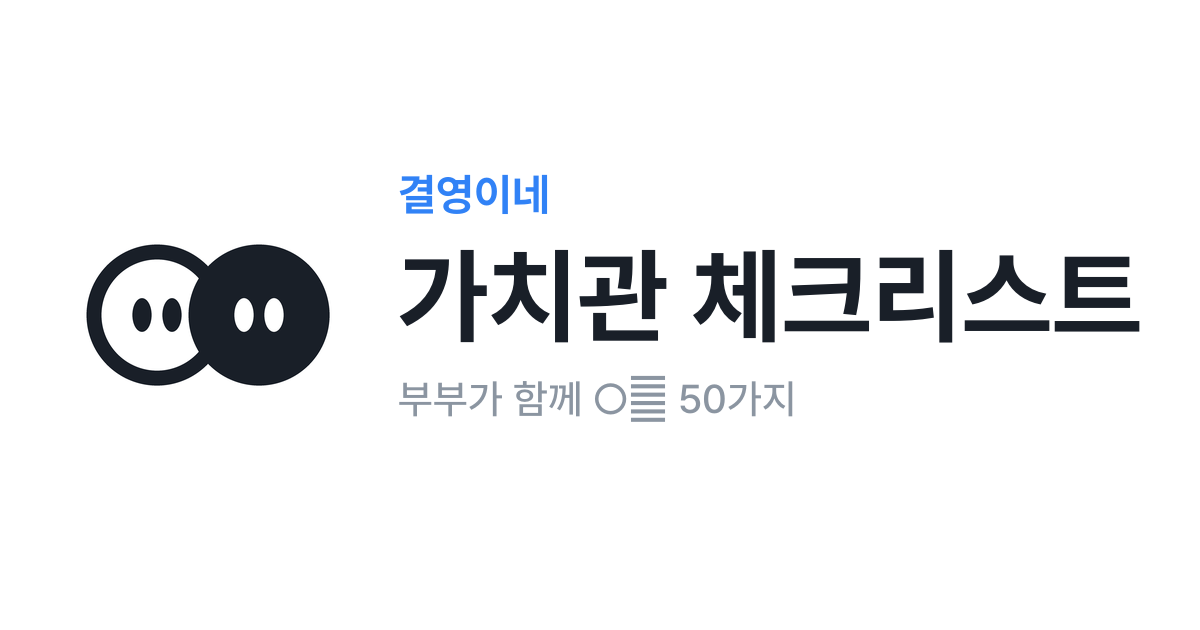
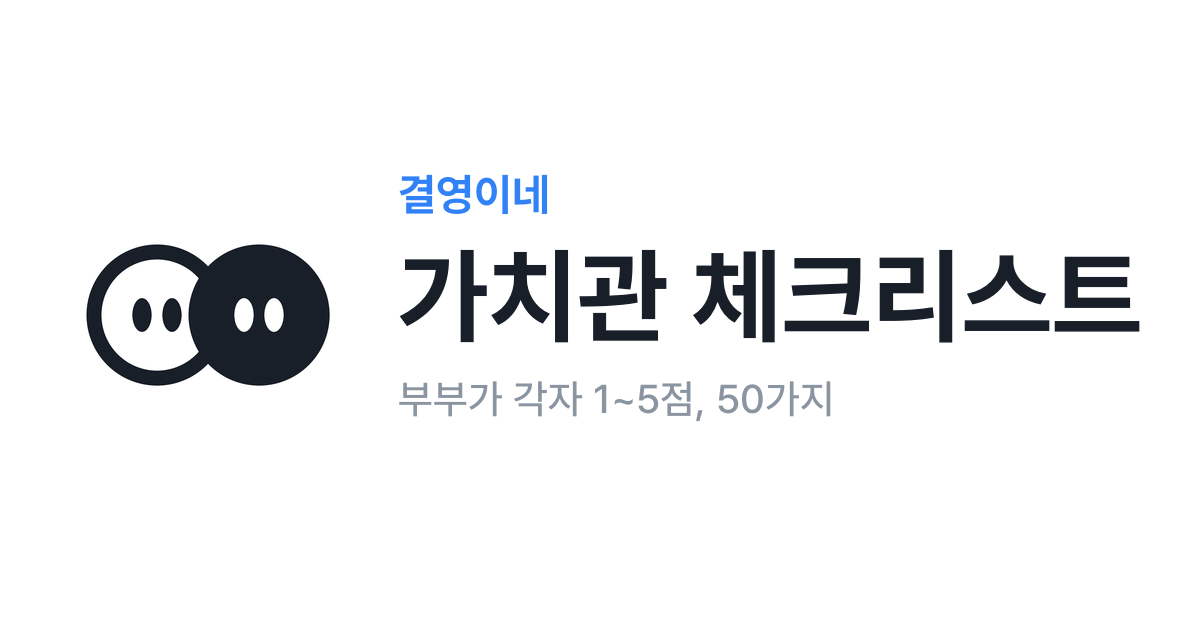
가치관 체크리스트: ○✕ → 1~5점(매우 아니다~매우 그렇다)
- 궁합 % = 평균(1 - 차이/4), 한 칸 차이는 '비슷'
- '이것부터 이야기해 보세요'는 2칸 이상 차이, 큰 차이부터
- 이 기기 저장 v2로 새 칸, supabase/household-values-5.sql 실행 필요

Changed region(s): [[0.4317, 0.573, 0.7092, 0.6937]]

diff --git a/src/pages/Values.tsx b/src/pages/Values.tsx
@@ -6,7 +6,7 @@ import ShareArticle, {
 } from "../components/ShareArticle";
 import { supabase } from "../lib/supabase";
 import { rememberLogin } from "../lib/preview";
-import { computeMatch, type ValuesMatch } from "../lib/valuesMatch";
+import { computeMatch, gap, SCALE, type ValuesMatch } from "../lib/valuesMatch";
 import {
   deleteMyValues,
   fetchValuesRows,
@@ -18,12 +18,13 @@ import {
 /**
  * 부부 재테크 가치관 체크리스트 50 (2026-11-19) — 로그인 없이 열리는 공개 페이지.
  * 인스타툰 「결혼자금 3천만원, 적은 걸까?」 댓글로 받은 사람이 들어온다.
- * 각자 자기 폰에서 자기 칸(아내/남편)만 ○✕ → 두 답을 합쳐 궁합 카드(같은 답 비율)와 다른 것 목록을 보여 준다. 정답 없음.
+ * 각자 자기 폰에서 자기 칸(아내/남편)만 1~5점(매우 아니다~매우 그렇다) → 두 답을 합쳐 궁합 카드와 생각이 먼 것 목록을 보여 준다. 정답 없음.
+ * 11-20 결영 "ox 말고 1~5점, 매우 그렇다·매우 아니다도" — 답 한 글자 = 0 빈칸·1~5 점수.
  * 합치는 길 두 가지 (11-19 결영 "내 폰에서는 나만, 배우자는 배우자 것 / 로그인하면 합쳐지게"):
  *  - 로그인한 부부: household_values 표(supabase/household-values.sql)에 한 사람 한 행 → 저절로 합침.
  *  - 로그인 안 함: '배우자에게 보내기' 링크(#/values?w=.. 또는 ?h=..)에 내 답만 실어 보냄 — 서버에 안 보냄.
  */
-type Mark = 0 | 1 | 2; // 0 빈칸 · 1 ○ · 2 ✕
+type Mark = 0 | 1 | 2 | 3 | 4 | 5; // 0 빈칸 · 1 매우 아니다 … 5 매우 그렇다
 
 const GROUPS: { title: string; emoji: string; items: string[] }[] = [
   {
@@ -139,10 +140,10 @@ const GROUPS: { title: string; emoji: string; items: string[] }[] = [
 ];
 const ITEMS = GROUPS.flatMap((g) => g.items);
 const N = ITEMS.length; // 50
-const KEY = "moabuli.values.v1";
+const KEY = "moabuli.values.v2"; // v1 = ○✕ 시절(11-19), 섞이지 않게 새 칸
 
 function decode(s: string | null): Mark[] | null {
-  if (!s || !/^[012]+$/.test(s)) return null;
+  if (!s || !/^[0-5]+$/.test(s)) return null;
   const a = s.slice(0, N).split("").map((c) => Number(c) as Mark);
   while (a.length < N) a.push(0);
   return a;
@@ -269,7 +270,7 @@ export default function Values() {
     }
   }, [ans, me, ready]);
 
-  const pick = (i: number, v: 1 | 2) => {
+  const pick = (i: number, v: Mark) => {
     if (!me) return;
     setAns((prev) => {
       const a = [...prev[me]] as Mark[];
@@ -282,7 +283,10 @@ export default function Values() {
   const husband = ans.h;
   const match = useMemo(() => computeMatch(GROUPS, wife, husband), [wife, husband]);
   const diffList = useMemo(
-    () => ITEMS.map((_, i) => i).filter((i) => wife[i] && husband[i] && wife[i] !== husband[i]),
+    () =>
+      ITEMS.map((_, i) => i)
+        .filter((i) => wife[i] && husband[i] && gap(wife[i], husband[i]) >= 2)
+        .sort((a, b) => gap(wife[b], husband[b]) - gap(wife[a], husband[a])),
     [wife, husband],
   );
 
@@ -367,7 +371,7 @@ export default function Values() {
               얼마 모았는지보다 <b className="font-bold text-[#FFD66B]">생각이 같은지</b>
               가 먼저예요.
               <br />
-              각자 폰으로 ○✕ 하면 두 답을 합쳐서 우리 부부 궁합을 보여 드려요.
+              각자 폰으로 1~5점 매기면 두 답을 합쳐서 우리 부부 궁합을 보여 드려요.
             </>
           }
         />
@@ -376,7 +380,7 @@ export default function Values() {
         <>
           <p className="font-semibold text-sub">알려 드려요</p>
           <p className="mt-1.5">
-            결영이네 「결혼 가치관 질문 50」(2023) 중 경제 생활·부모님·아이 질문을 ○✕ 로 바꾸고, 소비·저축·통장·부수입·투자·대출 질문을 더했어요.
+            결영이네 「결혼 가치관 질문 50」(2023) 중 경제 생활·부모님·아이 질문을 1~5점 문항으로 바꾸고, 소비·저축·통장·부수입·투자·대출 질문을 더했어요.
           </p>
           <p className="mt-1.5">
             정답이 있는 체크리스트가 아니에요. 로그인 안 하면 답은 이 폰에만 저장되고, 보내기를
@@ -389,7 +393,7 @@ export default function Values() {
       <ShareSection no={1} title="이렇게 해요">
         <ol className="space-y-2.5 text-[15px] leading-relaxed text-sub">
           <li>
-            <b className="text-ink">① 내 폰에서 내 답만</b> — 아내인지 남편인지 고르고 50개에 ○✕.
+            <b className="text-ink">① 내 폰에서 내 답만</b> — 아내인지 남편인지 고르고 50개에 1~5점(매우 아니다 ~ 매우 그렇다).
             배우자 답은 안 보여요.
           </li>
           <li>
@@ -477,15 +481,12 @@ export default function Values() {
                       const i = idx++;
                       const v = ans[me][i];
                       return (
-                        <li key={i} className="flex items-center gap-2 px-3 py-2.5">
-                          <span className="w-6 shrink-0 text-[12px] font-bold text-cap">{i + 1}</span>
-                          <span className="min-w-0 flex-1 text-[15px] leading-snug text-ink">{t}</span>
-                          <Choice on={v === 1} tone={me} onClick={() => pick(i, 1)} label={`${i + 1}번 그렇다`}>
-                            ○
-                          </Choice>
-                          <Choice on={v === 2} tone={me} onClick={() => pick(i, 2)} label={`${i + 1}번 아니다`}>
-                            ✕
-                          </Choice>
+                        <li key={i} className="px-3 pb-2.5 pt-3">
+                          <div className="flex gap-2">
+                            <span className="w-6 shrink-0 text-[12px] font-bold leading-[22px] text-cap">{i + 1}</span>
+                            <span className="min-w-0 flex-1 text-[15px] leading-snug text-ink">{t}</span>
+                          </div>
+                          <Scale5 v={v} tone={me} n={i + 1} onPick={(x) => pick(i, x)} />
                         </li>
                       );
                     })}
@@ -534,9 +535,12 @@ export default function Values() {
                   {diffList.map((i) => (
                     <li key={i} className="flex gap-2 text-[14px] leading-snug text-ink">
                       <span className="shrink-0 font-bold text-[#E0457B]">{i + 1}</span>
-                      <span className="flex-1">{ITEMS[i]}</span>
-                      <span className="shrink-0 text-sub">
-                        아내 {wife[i] === 1 ? "○" : "✕"} · 남편 {husband[i] === 1 ? "○" : "✕"}
+                      <span className="flex-1">
+                        {ITEMS[i]}
+                        <span className="mt-0.5 block text-[12px] text-sub">
+                          아내 <b className="text-[#E0457B]">{SCALE[wife[i]]}</b> · 남편{" "}
+                          <b className="text-[#2F4AA8]">{SCALE[husband[i]]}</b>
+                        </span>
                       </span>
                     </li>
                   ))}
@@ -544,7 +548,7 @@ export default function Values() {
               </div>
             ) : (
               <p className="mt-4 rounded-2xl bg-bg px-4 py-3 text-[14px] text-sub">
-                둘 다 답한 건 생각이 다 같아요 🙌
+                둘 다 답한 건 생각이 다 비슷해요 🙌
               </p>
             )}
             <ShareButton copied={copied} onClick={share} label={`${NAME[partner!]}에게 결과 보내기`} />
@@ -576,7 +580,7 @@ function MatchCard({ m }: { m: ValuesMatch }) {
       </p>
       <p className="mt-2 text-center text-[14px]">{m.line}</p>
       <p className="mt-0.5 text-center text-[12px] text-[#606A7A]">
-        둘 다 답한 {m.both}개 중 {m.same}개가 같아요
+        둘 다 답한 {m.both}개 중 {m.same}개가 비슷해요
       </p>
       <ul className="mt-5 space-y-2">
         {m.groups.map((g) => {
@@ -635,29 +639,29 @@ function ShareButton({ copied, onClick, label }: { copied: boolean; onClick: () 
   );
 }
 
-function Choice({
-  on,
-  tone,
-  onClick,
-  label,
-  children,
-}: {
-  on: boolean;
-  tone: Who;
-  onClick: () => void;
-  label: string;
-  children: string;
-}) {
-  const color = tone === "w" ? "bg-[#FFE3EC] text-[#E0457B] border-[#FFB3C9]" : "bg-[#E3EAFF] text-[#2F4AA8] border-[#B3C3F5]";
+/** 1~5점 — 양 끝이 크고 가운데가 작은 동그라미, 아래에 매우 아니다 · 보통 · 매우 그렇다 */
+function Scale5({ v, tone, n, onPick }: { v: Mark; tone: Who; n: number; onPick: (x: Mark) => void }) {
+  const fill = tone === "w" ? "bg-[#E0457B] border-[#E0457B]" : "bg-[#2F4AA8] border-[#2F4AA8]";
+  const size = ["", "h-9 w-9", "h-7 w-7", "h-6 w-6", "h-7 w-7", "h-9 w-9"];
   return (
-    <button
-      type="button"
-      onClick={onClick}
-      aria-label={label}
-      aria-pressed={on}
-      className={`flex h-10 w-11 shrink-0 items-center justify-center rounded-xl border text-[20px] font-extrabold ${on ? color : "border-line bg-white text-[#C9CDD4]"}`}
-    >
-      {children}
-    </button>
+    <div className="mt-2 pl-8">
+      <div className="flex items-center justify-between px-1">
+        {([1, 2, 3, 4, 5] as Mark[]).map((x) => (
+          <button
+            key={x}
+            type="button"
+            onClick={() => onPick(x)}
+            aria-label={`${n}번 ${SCALE[x]}`}
+            aria-pressed={v === x}
+            className={`${size[x]} shrink-0 rounded-full border-2 ${v === x ? fill : "border-[#C9CDD4] bg-white"}`}
+          />
+        ))}
+      </div>
+      <div className="mt-1 flex justify-between text-[11px] font-bold text-cap">
+        <span>매우 아니다</span>
+        <span>보통</span>
+        <span>매우 그렇다</span>
+      </div>
+    </div>
   );
 }

diff --git a/src/lib/valuesMatch.ts b/src/lib/valuesMatch.ts
@@ -1,12 +1,18 @@
 /**
- * 가치관 체크리스트 궁합 점수 — 둘 다 답한 줄 중 같은 답 비율.
- * 정답이 있는 게 아니라서 낮은 점수도 '나쁘다'가 아니라 '이야기할 거리'로 말한다.
+ * 가치관 체크리스트 궁합 점수 — 1~5점(1 매우 아니다 … 5 매우 그렇다).
+ * 한 줄 점수 = 1 − |아내 − 남편| ÷ 4 (같으면 1, 정반대 1↔5 면 0). 궁합 % = 둘 다 답한 줄의 평균.
+ * 한 칸 차이(4와 5 등)는 '비슷'으로 센다. 정답이 있는 게 아니라 낮은 점수도 '이야기할 거리'로 말한다.
  */
+export const SCALE = ['', '매우 아니다', '아니다', '보통', '그렇다', '매우 그렇다'] as const
+
 export interface GroupMatch {
   title: string
   emoji: string
+  /** 비슷한 줄 수(차이 0~1) */
   same: number
   both: number
+  /** 0~1 평균 점수 */
+  score: number
 }
 export interface ValuesMatch {
   percent: number
@@ -27,29 +33,35 @@ export function matchLabel(percent: number): { label: string; line: string } {
   return { label: '이야기가 필요한 부부', line: '생각이 많이 달라요. 지금 알아서 다행이에요' }
 }
 
+export const gap = (a: number, b: number) => Math.abs(a - b)
+
 export function computeMatch(
   groups: { title: string; emoji: string; items: string[] }[],
   wife: number[],
   husband: number[],
 ): ValuesMatch {
   let i = 0
+  let sum = 0
   const gs: GroupMatch[] = groups.map((g) => {
     let same = 0,
-      both = 0
+      both = 0,
+      s = 0
     for (let k = 0; k < g.items.length; k++, i++) {
       if (wife[i] && husband[i]) {
         both++
-        if (wife[i] === husband[i]) same++
+        const d = gap(wife[i], husband[i])
+        s += 1 - d / 4
+        if (d <= 1) same++
       }
     }
-    return { title: g.title, emoji: g.emoji, same, both }
+    sum += s
+    return { title: g.title, emoji: g.emoji, same, both, score: both ? s / both : 0 }
   })
-  const both = gs.reduce((s, g) => s + g.both, 0)
-  const same = gs.reduce((s, g) => s + g.same, 0)
-  const percent = both ? Math.round((same / both) * 100) : 0
+  const both = gs.reduce((t, g) => t + g.both, 0)
+  const same = gs.reduce((t, g) => t + g.same, 0)
+  const percent = both ? Math.round((sum / both) * 100) : 0
   const rated = gs.filter((g) => g.both > 0)
-  const rate = (g: GroupMatch) => g.same / g.both
-  const best = rated.length ? rated.reduce((a, b) => (rate(b) > rate(a) ? b : a)) : null
-  const worst = rated.length ? rated.reduce((a, b) => (rate(b) < rate(a) ? b : a)) : null
+  const best = rated.length ? rated.reduce((a, b) => (b.score > a.score ? b : a)) : null
+  const worst = rated.length ? rated.reduce((a, b) => (b.score < a.score ? b : a)) : null
   return { percent, both, same, diff: both - same, ...matchLabel(percent), groups: gs, best, worst }
 }

diff --git a/src/lib/valuesMatch.test.ts b/src/lib/valuesMatch.test.ts
@@ -6,20 +6,24 @@ const G = [
   { title: '투자', emoji: '📈', items: ['c', 'd'] },
 ]
 
-describe('computeMatch', () => {
-  it('둘 다 답한 줄만 센다', () => {
-    const m = computeMatch(G, [1, 1, 2, 0], [1, 2, 2, 1])
+describe('computeMatch (1~5점)', () => {
+  it('차이만큼 점수를 깎고, 한 칸 차이는 비슷으로 센다', () => {
+    // 소비: 5vs5(1) · 1vs5(0) → 0.5 / 투자: 4vs5(0.75) · 비어 있음
+    const m = computeMatch(G, [5, 1, 4, 0], [5, 5, 5, 3])
     expect(m.both).toBe(3)
     expect(m.same).toBe(2)
-    expect(m.percent).toBe(67)
+    expect(m.percent).toBe(58) // (1 + 0 + 0.75) / 3
     expect(m.best?.title).toBe('투자')
     expect(m.worst?.title).toBe('소비')
   })
-  it('답이 하나도 겹치지 않으면 0%', () => {
+  it('겹치는 답이 없으면 0%', () => {
     const m = computeMatch(G, [1, 0, 0, 0], [0, 1, 0, 0])
     expect(m.both).toBe(0)
     expect(m.percent).toBe(0)
     expect(m.best).toBeNull()
+  })
+  it('다 똑같으면 100%', () => {
+    expect(computeMatch(G, [3, 4, 5, 1], [3, 4, 5, 1]).percent).toBe(100)
   })
 })
 

diff --git a/vite.config.ts b/vite.config.ts
@@ -41,8 +41,8 @@ const OG_PAGES: OgPage[] = [
   {
     dir: 'values',
     title: '결영이네 · 부부 재테크 가치관 체크리스트 50',
-    description: '아내·남편이 각자 ○✕ 하고, 생각이 다른 것부터 이야기해 보세요. 소비·저축·통장·부수입·투자·대출까지 50가지.',
-    image: 'https://moabuli.com/og-values.png?v=1',
+    description: '아내·남편이 각자 1~5점 매기고, 우리 부부 궁합과 생각이 먼 것부터 확인해 보세요. 소비·저축·통장·부수입·투자·대출까지 50가지.',
+    image: 'https://moabuli.com/og-values.png?v=2',
   },
   {
     dir: 'survey',

diff --git a/src/lib/shares.ts b/src/lib/shares.ts
@@ -29,7 +29,7 @@ export const SHARES: ShareItem[] = [
     slug: 'values',
     path: '/values',
     title: '부부 재테크 가치관 체크리스트 50',
-    sub: '아내·남편이 각자 ○✕ 하면 생각이 다른 것만 모아 보여 줘요 — 폰이 따로면 링크로 보내서',
+    sub: '아내·남편이 각자 1~5점 매기면 궁합 점수와 생각이 먼 것을 보여 줘요 — 폰이 따로면 링크로 합쳐서',
     category: '재테크',
     date: '2026-11-19',
     minutes: 10,

diff --git a/scripts/make-og.py b/scripts/make-og.py
@@ -80,7 +80,7 @@ def survey_card() -> Image.Image:
 
 
 def values_card() -> Image.Image:
-    return titled_card("가치관 체크리스트", "부부가 함께 ○✕ 50가지")
+    return titled_card("가치관 체크리스트", "부부가 각자 1~5점, 50가지")
 
 
 def titled_card(title: str, sub: str) -> Image.Image:
